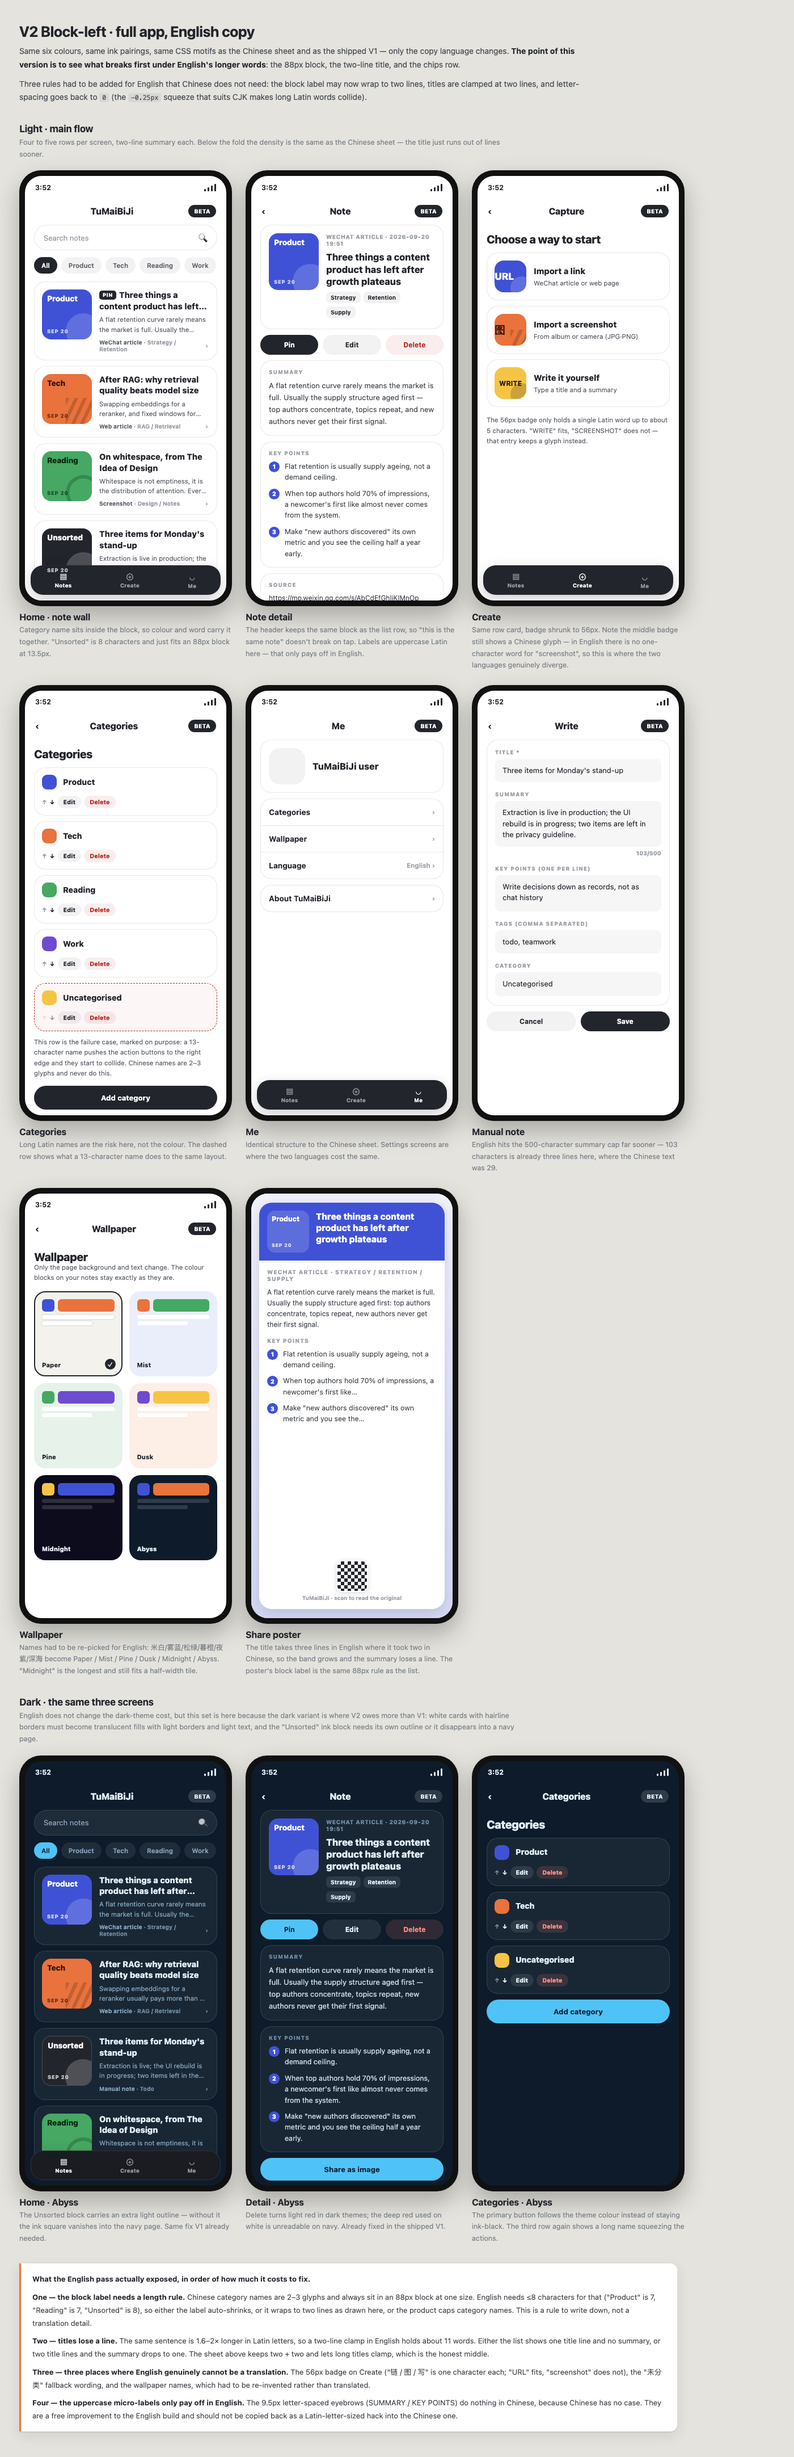
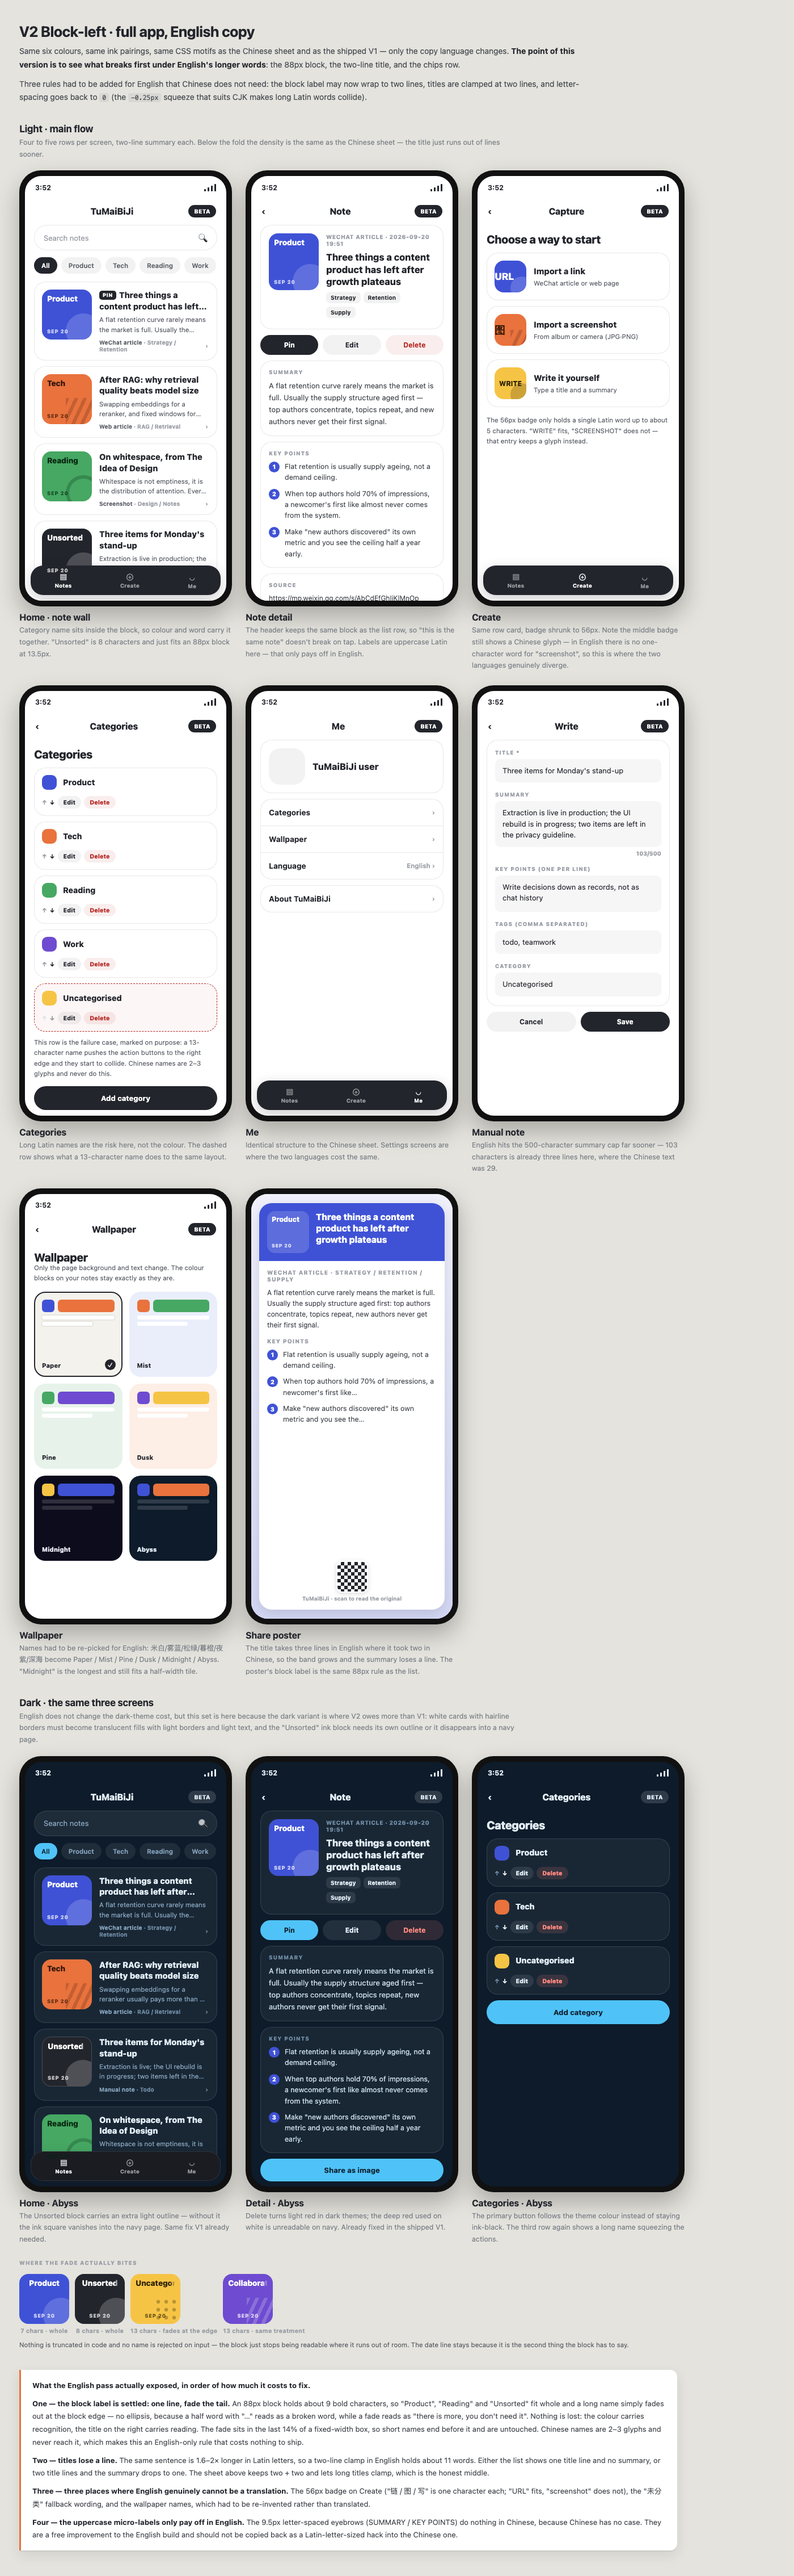
V2 块内分类名改成单行渐隐裁切，并排四块演示渐隐咬在哪
用户拍的方案：左边那块只是提示，识别由颜色承担、阅读由右侧标题承担，
所以英文分类名超出块宽就裁掉，不限制起名、不改后端。

用渐隐而不是省略号：断成半截的词加个"…"读起来像坏词，淡出读起来是
"后面还有，但你不用读"。实现上把渐隐放在固定宽度盒子的最右 14%，
短名字的最后一个字落在渐隐区之前所以完全不受影响，只有真顶到边的会淡。
中文 2~3 字永远到不了那条线，等于这条规则只对英文生效、不额外花钱。

英文版底部加了一排对照块（Product 7 字完整 / Unsorted 8 字完整 /
Uncategorised 13 字淡出 / Collaboration 13 字同样处理），
因为图上一切名字都刚好装得下时，看不出这条规则到底有没有生效。

Changed region(s): [[0.0, 0.0, 0.8907, 0.9979], [0.3379, 0.3119, 0.3993, 0.3742]]

diff --git a/docs/design/V2左块右文-全应用-英文.html b/docs/design/V2左块右文-全应用-英文.html
@@ -67,9 +67,15 @@
   .dark .row{background:rgba(255,255,255,.05);border-color:rgba(255,255,255,.12)}
   .blk{width:88px;height:88px;border-radius:16px;position:relative;overflow:hidden;align-self:start;
     display:flex;flex-direction:column;justify-content:space-between;padding:9px}
-  /* 英文比中文长，块里的分类名允许两行；这是中文版不需要的规则 */
-  .blk b{font-size:13.5px;font-weight:800;line-height:1.18;letter-spacing:-.1px;position:relative;z-index:2;
-    display:-webkit-box;-webkit-line-clamp:2;-webkit-box-orient:vertical;overflow:hidden}
+  /* 块内分类名：单行，顶到边就用渐隐收掉，不打省略号。
+     渐隐只吃盒子最右 14%，而盒子宽度固定等于可用宽度，所以短名字的最后一个字落在
+     渐隐区之前、完全不受影响，只有真被裁掉的长名字会淡出。
+     这块只是提示：识别由颜色承担、阅读由右侧标题承担，所以裁掉尾巴不丢信息。
+     中文 2~3 字永远到不了渐隐区，这条规则实际上只对英文生效。 */
+  .blk b{display:block;white-space:nowrap;overflow:hidden;position:relative;z-index:2;
+    -webkit-mask-image:linear-gradient(90deg,#000 0 86%,transparent 100%);
+    mask-image:linear-gradient(90deg,#000 0 86%,transparent 100%)}
+  .blk b{font-size:13.5px;font-weight:800;line-height:1.18;letter-spacing:-.1px}
   .blk span{font-size:9px;font-weight:800;letter-spacing:.7px;opacity:.72;position:relative;z-index:2}
   .blk .motif{right:-16px;bottom:-16px;width:62px;height:62px}
   .in{min-width:0;padding-right:2px}
@@ -157,7 +163,9 @@
   .pband{display:grid;grid-template-columns:74px 1fr;gap:12px;padding:14px;background:var(--b);color:#fff}
   .pband .blk2{width:74px;height:74px;border-radius:14px;background:rgba(255,255,255,.16);position:relative;overflow:hidden;
     display:flex;flex-direction:column;justify-content:space-between;padding:8px}
-  .pband .blk2 b{font-size:12px;font-weight:800;line-height:1.18;position:relative;z-index:2}
+  .pband .blk2 b{font-size:12px;font-weight:800;line-height:1.18;position:relative;z-index:2;
+    white-space:nowrap;overflow:hidden;-webkit-mask-image:linear-gradient(90deg,#000 0 84%,transparent 100%);
+    mask-image:linear-gradient(90deg,#000 0 84%,transparent 100%)}
   .pband .blk2 span{font-size:8.5px;font-weight:800;letter-spacing:.6px;opacity:.75;position:relative;z-index:2}
   .pband h4{font-size:15.5px;font-weight:800;line-height:1.3;position:relative;z-index:2}
   .pbody{padding:14px}
@@ -176,6 +184,12 @@
   .note p+p{margin-top:9px}
   .note b{color:var(--ink)}
   code{font-family:ui-monospace,Menlo,monospace;font-size:11.5px;background:rgba(35,37,44,.06);padding:1px 5px;border-radius:4px}
+  /* 渐隐到底咬在哪：并排三块，前两个名字完整，第三个 13 个字母被收掉 */
+  .fadedemo{display:flex;gap:10px;align-items:flex-start;margin:14px 0 4px;flex-wrap:wrap}
+  .fadedemo figure{margin:0;text-align:center}
+  .fadedemo figcaption{font-size:10.5px;font-weight:700;color:var(--ink-3);margin-top:6px;letter-spacing:.2px}
+  .fadedemo .blk{width:88px;height:88px}
+
 </style>
 </head>
 <body>
@@ -530,9 +544,20 @@
 
 </div>
 
+<div style="max-width:1160px;margin-top:26px">
+  <p class="lab" style="margin-bottom:2px">Where the fade actually bites</p>
+  <div class="fadedemo">
+    <figure><div class="blk" style="background:var(--b);color:#fff"><b>Product</b><span>SEP 20</span><i class="motif m-circle" style="color:#fff"></i></div><figcaption>7 chars · whole</figcaption></figure>
+    <figure><div class="blk" style="background:var(--k);color:#fff"><b>Unsorted</b><span>SEP 20</span><i class="motif m-pill" style="color:#fff"></i></div><figcaption>8 chars · whole</figcaption></figure>
+    <figure><div class="blk" style="background:var(--y);color:#2A2005"><b>Uncategorised</b><span>SEP 20</span><i class="motif m-dots" style="color:#2A2005"></i></div><figcaption>13 chars · fades at the edge</figcaption></figure>
+    <figure><div class="blk" style="background:var(--p);color:#fff"><b>Collaboration</b><span>SEP 20</span><i class="motif m-stripes" style="color:#fff"></i></div><figcaption>13 chars · same treatment</figcaption></figure>
+  </div>
+  <p class="hint" style="margin-top:10px">Nothing is truncated in code and no name is rejected on input — the block just stops being readable where it runs out of room. The date line stays because it is the second thing the block has to say.</p>
+</div>
+
 <div class="note">
   <p><b>What the English pass actually exposed, in order of how much it costs to fix.</b></p>
-  <p><b>One — the block label needs a length rule.</b> Chinese category names are 2–3 glyphs and always sit in an 88px block at one size. English needs ≤8 characters for that ("Product" is 7, "Reading" is 7, "Unsorted" is 8), so either the label auto-shrinks, or it wraps to two lines as drawn here, or the product caps category names. This is a rule to write down, not a translation detail.</p>
+  <p><b>One — the block label is settled: one line, fade the tail.</b> An 88px block holds about 9 bold characters, so "Product", "Reading" and "Unsorted" fit whole and a long name simply fades out at the block edge — no ellipsis, because a half word with "…" reads as a broken word, while a fade reads as "there is more, you don't need it". Nothing is lost: the colour carries recognition, the title on the right carries reading. The fade sits in the last 14% of a fixed-width box, so short names end before it and are untouched. Chinese names are 2–3 glyphs and never reach it, which makes this an English-only rule that costs nothing to ship.</p>
   <p><b>Two — titles lose a line.</b> The same sentence is 1.6–2× longer in Latin letters, so a two-line clamp in English holds about 11 words. Either the list shows one title line and no summary, or two title lines and the summary drops to one. The sheet above keeps two + two and lets long titles clamp, which is the honest middle.</p>
   <p><b>Three — three places where English genuinely cannot be a translation.</b> The 56px badge on Create ("链 / 图 / 写" is one character each; "URL" fits, "screenshot" does not), the "未分类" fallback wording, and the wallpaper names, which had to be re-invented rather than translated.</p>
   <p><b>Four — the uppercase micro-labels only pay off in English.</b> The 9.5px letter-spaced eyebrows (SUMMARY / KEY POINTS) do nothing in Chinese, because Chinese has no case. They are a free improvement to the English build and should not be copied back as a Latin-letter-sized hack into the Chinese one.</p>

diff --git a/docs/design/V2左块右文-全应用-中文.html b/docs/design/V2左块右文-全应用-中文.html
@@ -68,7 +68,15 @@
   .dark .row{background:rgba(255,255,255,.05);border-color:rgba(255,255,255,.12)}
   .blk{width:88px;height:88px;border-radius:16px;position:relative;overflow:hidden;align-self:start;
     display:flex;flex-direction:column;justify-content:space-between;padding:9px}
-  .blk b{font-size:16px;font-weight:800;line-height:1.2;letter-spacing:-.3px;position:relative;z-index:2}
+  /* 块内分类名：单行，顶到边就用渐隐收掉，不打省略号。
+     渐隐只吃盒子最右 14%，而盒子宽度固定等于可用宽度，所以短名字的最后一个字落在
+     渐隐区之前、完全不受影响，只有真被裁掉的长名字会淡出。
+     这块只是提示：识别由颜色承担、阅读由右侧标题承担，所以裁掉尾巴不丢信息。
+     中文 2~3 字永远到不了渐隐区，这条规则实际上只对英文生效。 */
+  .blk b{display:block;white-space:nowrap;overflow:hidden;position:relative;z-index:2;
+    -webkit-mask-image:linear-gradient(90deg,#000 0 86%,transparent 100%);
+    mask-image:linear-gradient(90deg,#000 0 86%,transparent 100%)}
+  .blk b{font-size:16px;font-weight:800;line-height:1.2;letter-spacing:-.3px}
   .blk span{font-size:9px;font-weight:800;letter-spacing:.7px;opacity:.72;position:relative;z-index:2}
   .blk .motif{right:-16px;bottom:-16px;width:62px;height:62px}
   .in{min-width:0;padding-right:2px}
